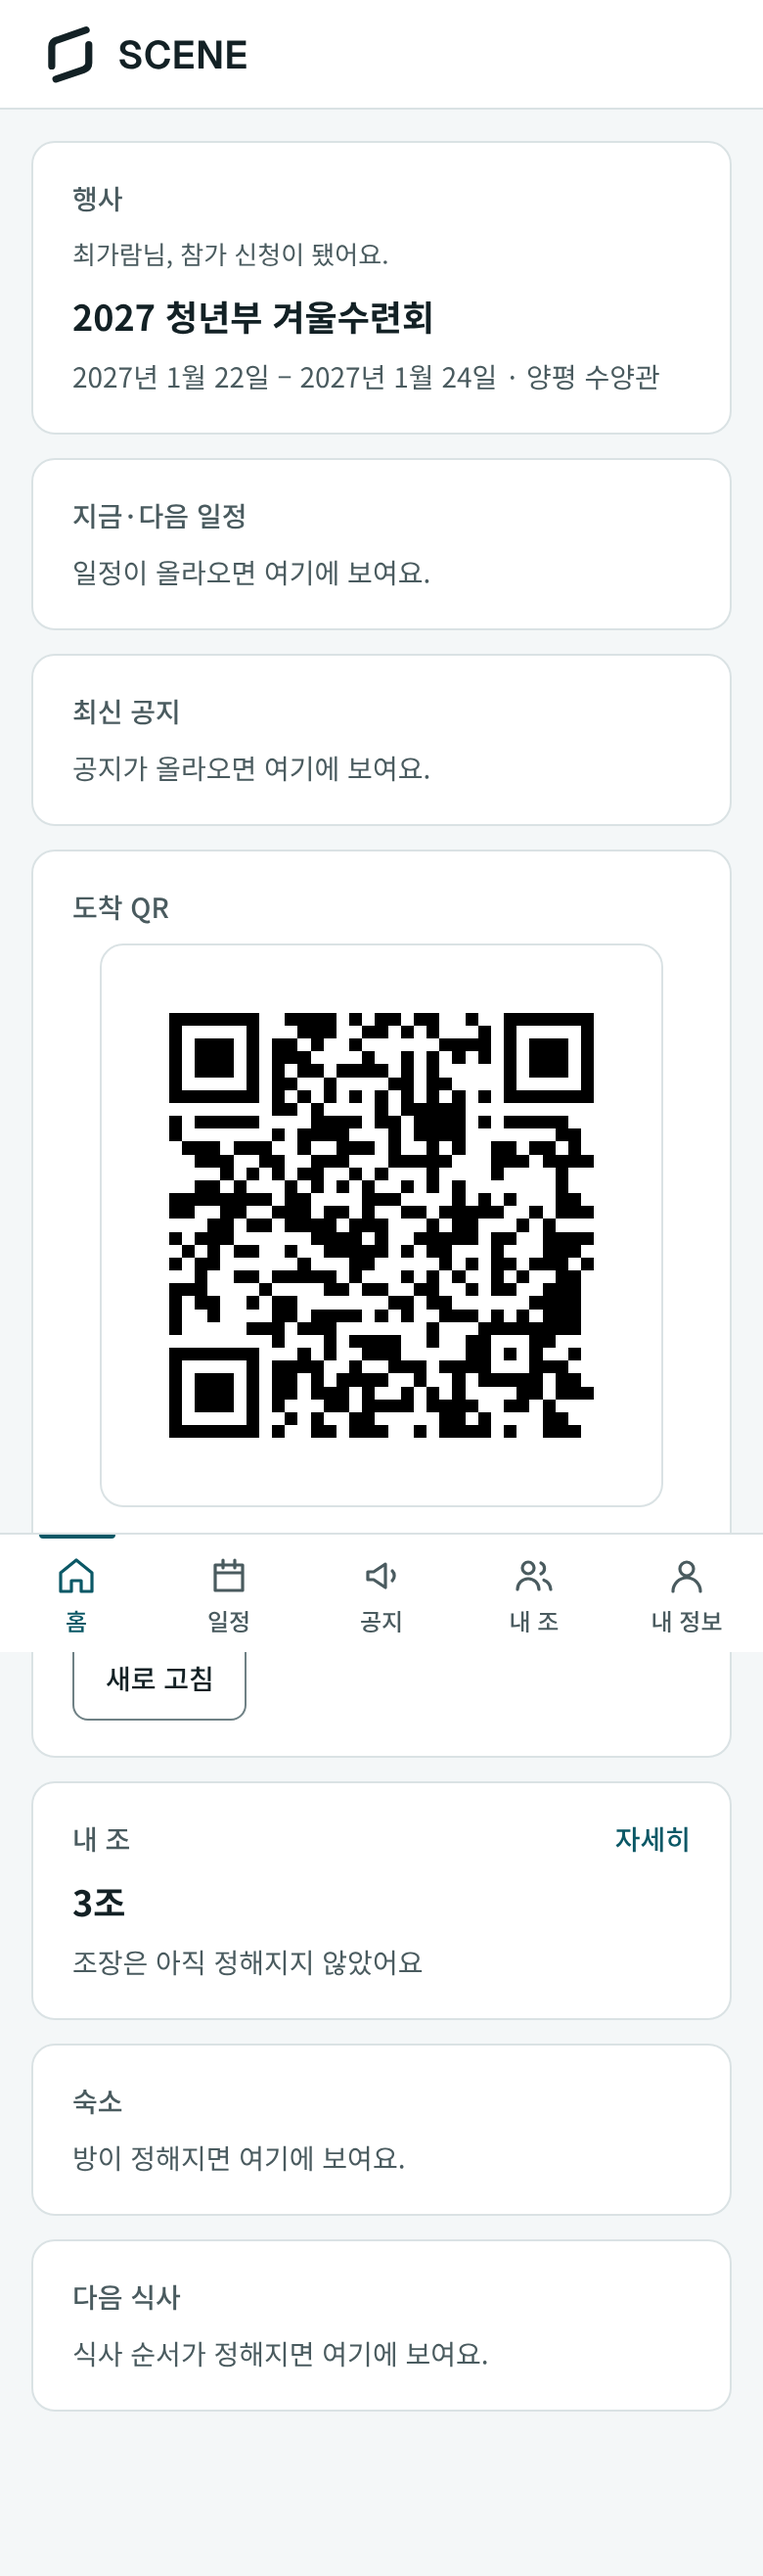
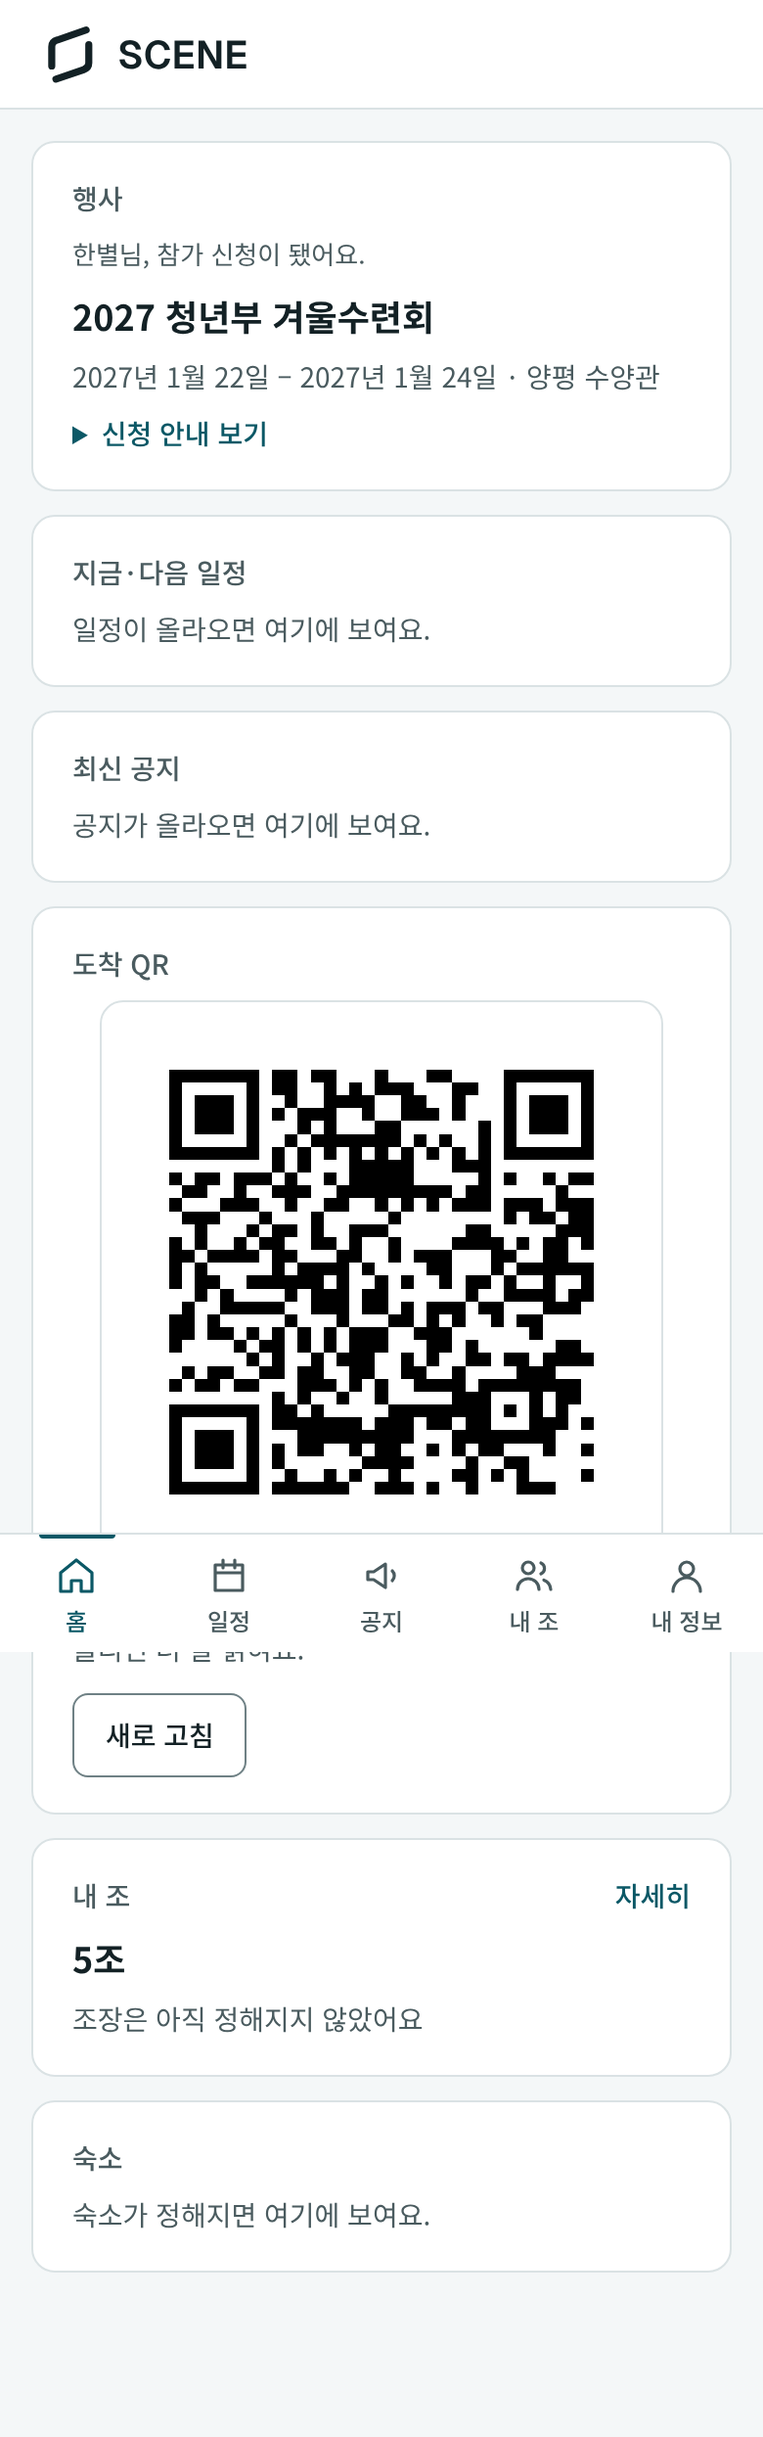
다음 식사 카드를 빼고 숙소 카드를 숙소 계약에 맞춘다 (#425)
사용자 결정(2026-11-20): 식사 순서는 1월 범위 밖이라 카드를 두지 않고 features·updates의 mealOrder를 무시한다.
숙소 빈 상태 문구는 room-contract §10.1, updates.rooms가 바뀌면 조장 화면의 방 때문에 group도 다시 읽는다(§10.2).
mock·실제 서버 캡처를 다시 찍었다.

Claude-Session: https://claude.ai/code/session_019gxRj82w3e9hnNmCft8sue

diff --git a/frontend/src/components/participant/ParticipantHome.test.tsx b/frontend/src/components/participant/ParticipantHome.test.tsx
@@ -59,13 +59,14 @@ describe("participant home (#425)", () => {
     vi.restoreAllMocks();
   });
 
-  it("shows the five tabs in order and every card when every area is on", async () => {
+  it("shows the five tabs in order and every card when every area is on, without a meal card", async () => {
     server.use(me(), home(), ...cards());
     openApp();
     expect(await screen.findByText("2027 청년부 겨울수련회")).toBeInTheDocument();
     expect(tabNames()).toEqual(["홈", "일정", "공지", "내 조", "내 정보"]);
     expect(screen.getByRole("link", { name: "홈", current: "page" })).toBeInTheDocument();
-    expect(cardTitles()).toEqual(["행사", "지금·다음 일정", "최신 공지", "도착 QR", "내 조", "숙소", "다음 식사"]);
+    expect(cardTitles()).toEqual(["행사", "지금·다음 일정", "최신 공지", "도착 QR", "내 조", "숙소"]);
+    expect(screen.queryByText(/식사/)).not.toBeInTheDocument();
     expect(screen.getByText("2027년 1월 22일 – 2027년 1월 24일 · 양평 수양관")).toBeInTheDocument();
     expect(screen.getByText("일정이 올라오면 여기에 보여요.")).toBeInTheDocument();
     expect(screen.getByText("공지가 올라오면 여기에 보여요.")).toBeInTheDocument();
@@ -73,7 +74,7 @@ describe("participant home (#425)", () => {
   });
 
   it("leaves out the tabs and cards of areas that are off", async () => {
-    server.use(me(), home({ features: { groups: false, rooms: false, mealOrder: false, notices: false } }), ...cards());
+    server.use(me(), home({ features: { groups: false, rooms: false, notices: false } }), ...cards());
     openApp();
     await screen.findByText("2027 청년부 겨울수련회");
     expect(tabNames()).toEqual(["홈", "일정", "내 정보"]);

diff --git a/frontend/src/components/participant/updateTargets.ts b/frontend/src/components/participant/updateTargets.ts
@@ -6,9 +6,9 @@ import { queryKeys } from "../../api/queryKeys";
  * Which reads an `updates` key reloads (participant-home-contract §4). This table is the only place
  * that joins the two; the poll hook invalidates exactly these keys when a value differs.
  *
- * Adding a card (C5 일정, D4 공지, G4 숙소, H4 식사, B5 알림함): put the card's `useQuery` under the
+ * Adding a card (C5 일정, D4 공지, G4 숙소, B5 알림함): put the card's `useQuery` under the
  * key already listed here — `queryKeys.participantSchedule(eventId)`, `participantNotices(eventId)`,
- * `participantRooms`, `participantMealOrder`, `participantNotifications` — or under a key that starts
+ * `participantRooms`, `participantNotifications` — or under a key that starts
  * with it (`[...queryKeys.participantNotices(eventId), "detail", id]`). Nothing else needs to change:
  * invalidation matches by prefix, reloads the queries on screen now, and marks the rest stale so they
  * load when their tab opens. Give those queries `staleTime: Infinity` (see `participantCardQuery`) so
@@ -24,8 +24,8 @@ export const UPDATE_TARGETS: Record<FeedKey, (eventId: string) => readonly Query
     queryKeys.participantNotices(eventId),
     queryKeys.participantSchedule(eventId),
   ],
-  rooms: (eventId) => [queryKeys.participantRooms(eventId)],
-  mealOrder: (eventId) => [queryKeys.participantMealOrder(eventId)],
+  // A leader's member list shows each member's room (room-contract §10.2); a room publication does not raise `group`.
+  rooms: (eventId) => [queryKeys.participantRooms(eventId), queryKeys.participantGroup(eventId)],
   checkIn: (eventId) => [queryKeys.participantCheckIn(eventId)],
   application: (eventId) => [queryKeys.participantApplication(eventId)],
 };

diff --git a/frontend/src/mocks/participantFeedStore.ts b/frontend/src/mocks/participantFeedStore.ts
@@ -7,10 +7,9 @@ import { currentApplicationRevision } from "./participantStore";
 /**
  * Shaped like GET /participant/home and /participant/updates (participant-home-contract §3·§4, B2).
  * Event-scope values rise when what they cover changes: the mock compares a signature on each read
- * instead of hooking every write path. Areas without a store yet (schedule, notices, rooms, meal
- * order) stay 0 unless a test or a mock click raises them with `bumpFeed`.
+ * instead of hooking every write path. Areas without a store yet (schedule, notices, rooms) stay 0 unless a test or a mock click raises them with `bumpFeed`.
  */
-type EventKey = "home" | "schedule" | "notices" | "group" | "rooms" | "mealOrder";
+type EventKey = "home" | "schedule" | "notices" | "group" | "rooms";
 
 const versions = new Map<string, Record<EventKey, number>>();
 const signatures = new Map<string, string>();
@@ -34,7 +33,7 @@ export function setPollAfterSeconds(seconds: number): void {
 
 function rowOf(eventId: string): Record<EventKey, number> {
   let row = versions.get(eventId);
-  if (!row) versions.set(eventId, (row = { home: 0, schedule: 0, notices: 0, group: 0, rooms: 0, mealOrder: 0 }));
+  if (!row) versions.set(eventId, (row = { home: 0, schedule: 0, notices: 0, group: 0, rooms: 0 }));
   return row;
 }
 
@@ -56,7 +55,6 @@ export function readFeatures(eventId: string) {
     notices: true,
     groups: all || publicationCount(eventId) > 0,
     rooms: all,
-    mealOrder: all,
   };
 }
 

diff --git a/frontend/src/api/participantHome.test.ts b/frontend/src/api/participantHome.test.ts
@@ -13,9 +13,9 @@ describe("participant home response", () => {
     expect(parseHome({ event: EVENT, ...extra }).completionNotice).toBe(text);
   });
 
-  it("turns a missing or unknown area off and keeps the home without updates", () => {
-    const home = parseHome({ event: EVENT, features: { schedule: true, groups: "yes", future: true } });
-    expect(home.features).toEqual({ schedule: true, notices: false, groups: false, rooms: false, mealOrder: false });
+  it("turns a missing or unknown area off, ignores meal order and keeps the home without updates", () => {
+    const home = parseHome({ event: EVENT, features: { schedule: true, groups: "yes", future: true, mealOrder: true } });
+    expect(home.features).toEqual({ schedule: true, notices: false, groups: false, rooms: false });
     expect(home.updates).toBeNull();
   });
 
@@ -23,6 +23,6 @@ describe("participant home response", () => {
     expect(parseUpdates({ pollAfterSeconds: 1 })?.pollAfterSeconds).toBe(10);
     expect(parseUpdates({ pollAfterSeconds: 9000 })?.pollAfterSeconds).toBe(300);
     expect(parseUpdates({})?.pollAfterSeconds).toBe(30);
-    expect(parseUpdates({ home: 2, somethingNew: 4, group: "x" })?.versions).toEqual({ home: 2 });
+    expect(parseUpdates({ home: 2, somethingNew: 4, group: "x", mealOrder: 3 })?.versions).toEqual({ home: 2 });
   });
 });

diff --git a/frontend/src/components/participant/HomeTab.tsx b/frontend/src/components/participant/HomeTab.tsx
@@ -2,7 +2,6 @@ import { CheckInCard } from "./cards/CheckInCard";
 import { EventHeadCard } from "./cards/EventHeadCard";
 import { GroupCard } from "./cards/GroupCard";
 import { LatestNoticesCard } from "./cards/LatestNoticesCard";
-import { MealCard } from "./cards/MealCard";
 import { NowNextCard } from "./cards/NowNextCard";
 import { RoomCard } from "./cards/RoomCard";
 import { useParticipantFeed } from "./participantFeed";
@@ -10,6 +9,8 @@ import { useParticipantFeed } from "./participantFeed";
 /**
  * The home cards in the contract's order (§1). An area that is off has no card. Each card reads its
  * own path and fails on its own. A new card goes in its own file under `cards/` and one line here.
+ * There is no 다음 식사 card: meal order is out of the January scope (user decision 2026-11-20), so
+ * `features.mealOrder` and `updates.mealOrder` are ignored even if the server sends them.
  */
 export function HomeTab() {
   const { features } = useParticipantFeed();
@@ -21,7 +22,6 @@ export function HomeTab() {
       <CheckInCard />
       {features?.groups ? <GroupCard /> : null}
       {features?.rooms ? <RoomCard /> : null}
-      {features?.mealOrder ? <MealCard /> : null}
     </div>
   );
 }

diff --git a/frontend/src/api/participantHome.ts b/frontend/src/api/participantHome.ts
@@ -5,7 +5,8 @@ import { ApiError } from "./errors";
  * `GET /participant/home` and `GET /participant/updates` (DEC-080, participant-home-contract §3·§4).
  * The screen decides tabs and cards from `features` and `updates` only, never from the event type.
  */
-export type ParticipantFeatureKey = "schedule" | "notices" | "groups" | "rooms" | "mealOrder";
+/** `mealOrder` is not read: meal order is out of the January scope (user decision 2026-11-20). */
+export type ParticipantFeatureKey = "schedule" | "notices" | "groups" | "rooms";
 export type ParticipantFeatures = Record<ParticipantFeatureKey, boolean>;
 
 export type ParticipantEventStatus = "DRAFT" | "ACTIVE" | "ENDED" | "ARCHIVED";
@@ -20,7 +21,6 @@ export const FEED_KEYS = [
   "notices",
   "group",
   "rooms",
-  "mealOrder",
   "checkIn",
   "application",
 ] as const;
@@ -94,7 +94,6 @@ export function parseHome(value: unknown): ParticipantHome {
       notices: features.notices === true,
       groups: features.groups === true,
       rooms: features.rooms === true,
-      mealOrder: features.mealOrder === true,
     },
     updates: parseUpdates(value.updates),
   };

diff --git a/frontend/src/mocks/participantHomeTestHandlers.ts b/frontend/src/mocks/participantHomeTestHandlers.ts
@@ -3,7 +3,7 @@ import type { ParticipantFeatures } from "../api/participantHome";
 
 /** Test seams (#425): static participant home answers for screen tests. Not used by the mock app. */
 
-export const ALL_FEATURES: ParticipantFeatures = { schedule: true, notices: true, groups: true, rooms: true, mealOrder: true };
+export const ALL_FEATURES: ParticipantFeatures = { schedule: true, notices: true, groups: true, rooms: true };
 
 export const UPDATES = {
   home: 1,
@@ -34,7 +34,7 @@ export function homeBody(overrides: { features?: Partial<ParticipantFeatures>; e
     },
     participant: { name: "김", applicationStatus: "SUBMITTED" },
     completionNotice: null,
-    features: { ...ALL_FEATURES, ...features },
+    features: { ...ALL_FEATURES, mealOrder: true, ...features },
     updates: UPDATES,
     ...rest,
   };

diff --git a/frontend/src/components/participant/cards/RoomCard.tsx b/frontend/src/components/participant/cards/RoomCard.tsx
@@ -1,10 +1,14 @@
 import { EmptyNote, HomeCard } from "../HomeCard";
 
-/** 숙소 (§1). G4 fills it from `rooms` under `queryKeys.participantRooms(eventId)`; reloads on `updates.rooms`. */
+/**
+ * 숙소 (§1, room-contract §10.1). G4 fills it from `GET /participant/rooms` under
+ * `queryKeys.participantRooms(eventId)` with `participantCardQuery`; it reloads on `updates.rooms`.
+ * Until then it is the `NOT_PUBLISHED` empty state.
+ */
 export function RoomCard() {
   return (
     <HomeCard title="숙소">
-      <EmptyNote>방이 정해지면 여기에 보여요.</EmptyNote>
+      <EmptyNote>숙소가 정해지면 여기에 보여요.</EmptyNote>
     </HomeCard>
   );
 }

diff --git a/frontend/src/api/queryKeys.ts b/frontend/src/api/queryKeys.ts
@@ -47,7 +47,6 @@ export const queryKeys = {
   participantSchedule: (eventId: string) => ["participant", "schedule", eventId] as const,
   participantNotices: (eventId: string) => ["participant", "notices", eventId] as const,
   participantRooms: (eventId: string) => ["participant", "rooms", eventId] as const,
-  participantMealOrder: (eventId: string) => ["participant", "meal-order", eventId] as const,
   participantApplication: (eventId: string) => ["participant", "application", eventId] as const,
   participantNotifications: (eventId: string) => ["participant", "notifications", eventId] as const,
   /** Every participant read of the event, removed on logout. */

diff --git a/docs/test_results/425-participant-home-real/README.md b/docs/test_results/425-participant-home-real/README.md
@@ -4,16 +4,18 @@
 - 날짜: 2026-11-20
 - 방법: B2(#432)가 들어간 main을 병합한 이 브랜치의 백엔드를 `local` 프로파일(PostgreSQL 17, Docker)로 띄우고 `VITE_API_MOCK=0` 개발 서버에서 Playwright로 클릭. **모든 참가자 경로가 실제 서버다**(`home`·`updates` 포함). 운영자 동작(조 만들기·배정·공개, 완료 안내 저장)은 운영자 API로 했다. 기록: [click-log.txt](click-log.txt)
 
+캡처는 "다음 식사" 카드를 뺀 뒤(사용자 결정 2026-11-20, 식사 순서는 1월 범위 밖) 다시 찍었다. [click-log.txt](click-log.txt)는 다시 찍은 실행의 기록이다.
+
 | 파일 | 확인한 것 |
 |---|---|
 | `390-01-home.png` | 공개 신청 → 내 신청 보기 → 홈. 수련회 행사라 다섯 탭, 실제 도착 QR |
 | `390-02-me-saved.png` | 내 정보 고치기 저장(또래 98 → 99) |
-| `390-03-group-published.png` | 운영자가 조 편성을 공개하고 **32.6초 뒤**(화면 조작 없음) 홈 내 조 카드가 "3조"로 바뀜 |
-| `390-04-completion-notice.png` | 운영자가 완료 안내를 저장하고 **27.0초 뒤** 행사 카드에 "신청 안내 보기"가 생김(`updates.home`) |
+| `390-03-group-published.png` | 운영자가 조 편성을 공개하고 화면 조작 없이 홈 내 조 카드가 바뀜. 첫 실행 **32.6초**, 다시 찍은 실행 **24.0초**("5조") |
+| `390-04-completion-notice.png` | 첫 실행에서 운영자가 완료 안내를 저장하고 **27.0초 뒤** 행사 카드에 "신청 안내 보기"가 생김(`updates.home`). 다시 찍은 실행은 안내가 이미 있어 측정하지 않았다(로그의 0.0초) |
 | `desktop-01-home.png`·`desktop-02-me.png` | 1280px |
 
 탭 주소(`…/schedule`, `…/notices`, `…/group`, `…/me`)와 새로 고침 뒤 같은 탭 유지도 확인했다.
 
-**30초 기준에 대해:** 계약 §5는 `pollAfterSeconds` 30에 ±20%를 주므로 확인 간격이 24–36초다. 이번 공개는 32.6초 뒤에 보였다. "30초 안"을 늘 지키려면 서버 설정 `scene.participant.poll-after-seconds`를 25로 두면 20–30초가 된다(결정 대기, PR 본문).
+**30초 기준에 대해:** 계약 §5는 `pollAfterSeconds` 30에 ±20%를 주므로 확인 간격이 24–36초다. 첫 실행에서 공개가 32.6초 뒤에 보였다. "30초 안"을 늘 지키려면 서버 설정 `scene.participant.poll-after-seconds`를 25로 두면 20–30초가 된다(결정 대기, PR 본문).
 
 못 한 것: 운영 서버 확인, 실제 휴대폰 기기, 200명 부하(J6).

diff --git a/docs/product/PRODUCT_DECISIONS.md b/docs/product/PRODUCT_DECISIONS.md
@@ -3244,6 +3244,7 @@ B2 서버를 만들며 계약 초안과 다르게 정하거나 초안이 열어 
 B3·B4 화면(하위 세션)을 만들며 정하거나 덧붙인 점이다. 경로 계약은 위 #423 Follow-up과 api.md를 따른다.
 
 - **완료 안내 모양:** 위 #423 1번대로 `completionNotice` 문자열만 읽는다(`api/participantHome.ts`의 `completionText` 한곳).
+- **다음 식사 카드는 없다.** 사용자 결정(2026-11-20)으로 식사 순서(트랙 H)가 1월 범위에서 빠졌다. 화면은 `features.mealOrder`와 `updates.mealOrder`를 서버가 보내도 무시한다. 숙소 카드는 빈 상태("숙소가 정해지면 여기에 보여요", room-contract §10.1)로 남고, `updates.rooms`가 바뀌면 조장 화면의 방 때문에 `group`도 다시 읽는다(§10.2).
 - **세션이 끊긴 뒤:** 카드나 `updates`가 `401`(또는 `403 PARTICIPANT_PIN_CHANGE_REQUIRED`)이면 참가자 읽기를 모두 지우고, 다시 들어올 때까지 들어오기 화면에 머문다. `/participant/me`가 아직 열려 있다고 답해도 홈으로 돌아가지 않는다(카드 `401`과 `me` 성공이 엇갈리면 홈과 들어오기를 끝없이 오가던 문제를 막는다).
 - **포커스 다시 읽기를 뺐다:** 도착 QR·내 조·`home`·`/participant/me`는 창 포커스·재연결로 다시 읽지 않는다. 다시 보일 때의 `updates` 한 번이 그 일을 맡는다(같은 경로를 두 번 부르지 않기). 카드 쿼리는 `staleTime: Infinity`이고 `updates`가 바뀐 키만 무효화한다.
 - **"신청 수정 받기"를 끄는 것은 `updates` 값을 올리지 않는다(계약 §4 표에 없음).** 화면은 내 정보 탭을 열 때마다 `GET /participant/application`을 다시 읽어 메운다(사람이 누르는 때만이라 부하가 작다). 열린 고치기 화면에서는 저장 때 `409 EDITS_CLOSED`로 읽기 전용이 된다. 결정 대기 3으로 남긴다.

diff --git a/docs/test_results/425-participant-home/README.md b/docs/test_results/425-participant-home/README.md
@@ -7,11 +7,11 @@
 
 | 파일 | 확인한 것 |
 |---|---|
-| `390-01-home.png` | 390px. 하단 탭 홈·일정·공지·내 조·내 정보, 카드 순서(행사·지금·다음 일정·최신 공지·도착 QR·내 조·숙소·다음 식사), 빈 상태 문구 |
+| `390-01-home.png` | 390px. 하단 탭 홈·일정·공지·내 조·내 정보, 카드 순서(행사·지금·다음 일정·최신 공지·도착 QR·내 조·숙소). "다음 식사"는 없다(사용자 결정 2026-11-20, 식사 순서는 1월 범위 밖), 빈 상태 문구 |
 | `390-02-home-notice-open.png` | 완료 안내를 펼친 모습(기본은 접힘) |
 | `390-03-schedule.png`·`390-04-notices.png` | 일정·공지 탭 빈 상태와 탭 주소(`…/schedule`, `…/notices`) |
 | `390-05-group.png` | 내 조 탭(`…/group`). 새로 고침 뒤에도 주소가 남는다(mock 저장소는 새로 고침에 비워져 다시 들어왔다) |
-| `390-06-group-published.png` | 운영자가 조 편성을 공개하고 **28.5초 뒤**(화면 조작 없음, 주기 확인) 홈 내 조 카드가 "3조"로 바뀜. 조장이라 "조원 현황" 바로가기가 보임 |
+| `390-06-group-published.png` | 운영자가 조 편성을 공개하고 **25.5초 뒤**(화면 조작 없음, 주기 확인) 홈 내 조 카드가 "3조"로 바뀜. 조장이라 "조원 현황" 바로가기가 보임 |
 | `390-07-me.png`·`390-08-me-edit.png`·`390-09-me-saved.png` | 내 정보: 낸 답, 고치기(전화번호는 읽기만), 저장 뒤 revision 2 |
 | `390-10-me-closed.png` | 신청·수정을 모두 닫은 뒤 내 정보를 다시 열면 고치기가 없고 안내가 보임 |
 | `390-11-offline.png` | 오프라인: "연결이 끊겼어요 · 마지막 갱신 HH:mm" |
